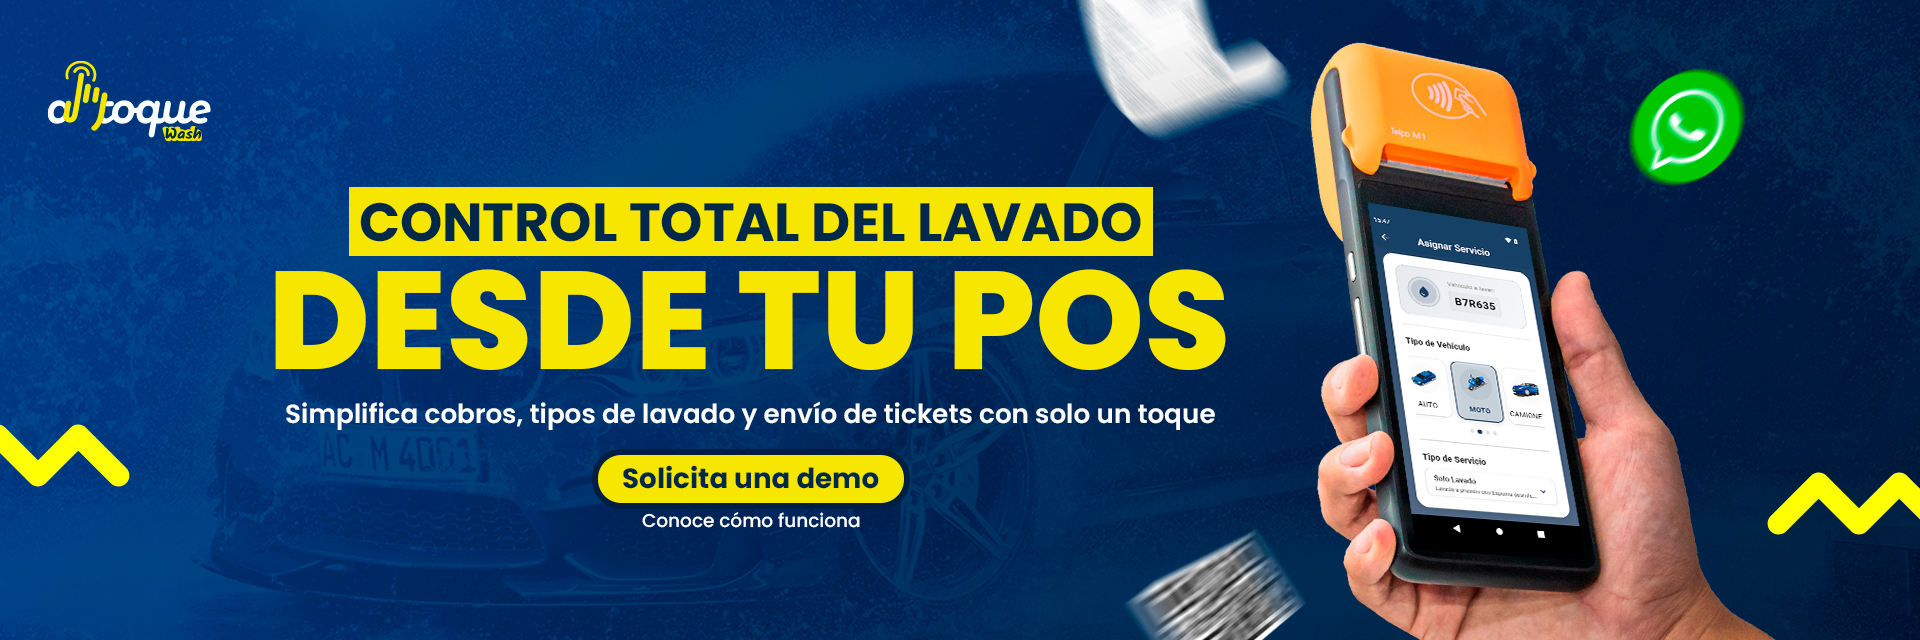
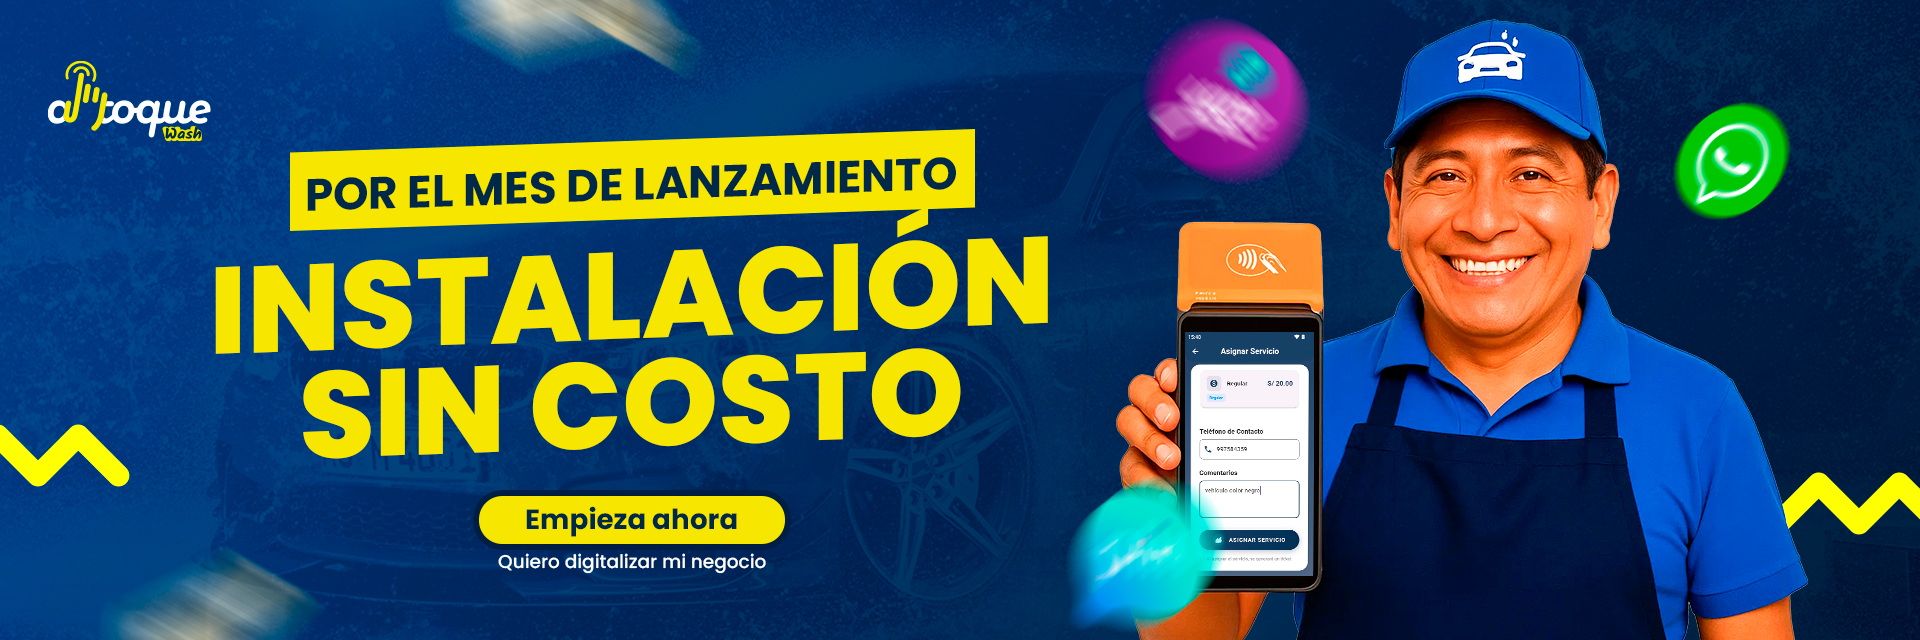
Add files via upload

diff --git a/index.html b/index.html
@@ -38,7 +38,7 @@
             <li class="nav-item"><a class="nav-link" href="#solucion-negocio">Productos y Servicios</a></li>
             <li class="nav-item"><a class="nav-link" href="#">Blog</a></li>
             <li class="nav-item"><a class="nav-link" href="#mas-informacion">Distribuidores</a></li>
-            <li class="nav-item"><a class="nav-link" href="#">¿Necesitas ayuda?</a></li>
+            <li class="nav-item"><a class="nav-link" href="https://wa.me/51988371879" target="_blank">¿Necesitas ayuda?</a></li>
           </ul>
         </div>
 
@@ -54,7 +54,7 @@
               <li class="nav-item"><a class="nav-link" href="#solucion-negocio">Productos y Servicios</a></li>
               <li class="nav-item"><a class="nav-link" href="#">Blog</a></li>
               <li class="nav-item"><a class="nav-link" href="#mas-informacion">Distribuidores</a></li>
-              <li class="nav-item"><a class="nav-link" href="#">¿Necesitas ayuda?</a></li>
+              <li class="nav-item"><a class="nav-link" href="https://wa.me/51988371879" target="_blank">¿Necesitas ayuda?</a></li>
             </ul>
           </div>
         </div>
@@ -69,22 +69,29 @@
           <div class="carousel-item active" data-bs-interval="5000">
             <picture>
               <source srcset="assets/image/banner1.webp" media="(max-width: 768px)">
+              <source srcset="assets/image/banner-carrusel/Banner 1.png">
+              <img src="assets/image/banner-carrusel/Banner 1.png" class="d-block w-100" alt="Banner 1">
+            </picture>
+          </div>
+          <div class="carousel-item " data-bs-interval="2000">
+            <picture>
+              <source srcset="assets/image/banner1.webp" media="(max-width: 768px)">
               <source srcset="assets/image/banner-carrusel/Banner 2.png">
-              <img src="assets/image/banner-carrusel/Banner 2.png" class="d-block w-100" alt="Banner 1">
+              <img src="assets/image/banner-carrusel/Banner 2.png" class="d-block w-100" alt="Banner 2">
             </picture>
           </div>
           <div class="carousel-item" data-bs-interval="2000">
             <picture>
               <source srcset="assets/image/banner2.webp" media="(max-width: 768px)">
               <source srcset="assets/image/banner-carrusel/Banner 3.png">
-              <img src="assets/image/banner-carrusel/Banner 3.png" class="d-block w-100" alt="Banner 2">
+              <img src="assets/image/banner-carrusel/Banner 3.png" class="d-block w-100" alt="Banner 3">
             </picture>
           </div>
           <div class="carousel-item">
             <picture>
               <source srcset="assets/image/banner3.webp" media="(max-width: 768px)">
-              <source srcset="assets/image/banner-carrusel/Banner 1.png">
-              <img src="assets/image/banner-carrusel/Banner 1.png" class="d-block w-100" alt="Banner 3">
+              <source srcset="assets/image/banner-carrusel/Banner 4.png">
+              <img src="assets/image/banner-carrusel/Banner 4.png" class="d-block w-100" alt="Banner 4">
             </picture>
           </div>
         </div>
@@ -123,7 +130,7 @@
         </div>
       </div>
       <!-- Pagos Mensual-->
-      <div class="container contenedor-pagos" id="contenedor-pagos-Mensual">
+      <div class="container contenedor-pagos contenedor-pagos-mensual" id="contenedor-pagos-Mensual">
         <div class="container contenedor-imagenes">
           <img src="assets/image/logo-altoque.png" class="logo-virtual" alt="logo">
           <img src="assets/image/pos-wash.png" alt="precioMaquina" width="250px" height="250px">
@@ -182,7 +189,7 @@
       <div class="container contenedor-pagos contenedor-pagos-anual" id="contenedor-pagos-anual">
         <div class="container contenedor-imagenes">
           <img src="assets/image/logo-altoque.png" class="logo-virtual" alt="logo">
-          <img src="assets/image/pos-wash.png" alt="precioMaquina" width="250px" height="250px">
+          <img src="assets/image/pos-wash-virtual2.png" alt="precioMaquina" width="250px" height="250px">
         </div>
         <div class="container contenedor-caracteristicas">
           <div class="container mt-4 contenedor-caracteristicas">
@@ -319,7 +326,7 @@
           <p>Contáctenos por</p>
           <p class="text-center">WhatsApp</p>
         </div>
-        <a href="https://wa.me/51987654321" target="_blank" class="whatsapp-float" aria-label="Chat en WhatsApp">
+        <a href="https://wa.me/51988371879" target="_blank" class="whatsapp-float" aria-label="Chat en WhatsApp">
           <img src="https://cdn-icons-png.flaticon.com/512/124/124034.png" alt="WhatsApp">
         </a>
       </div>

diff --git a/css/index.css b/css/index.css
@@ -70,6 +70,8 @@ body {
 
 .pagos {
     background-color: #dbe3eb;
+    /* background: linear-gradient(to right, #00008b, #1e90ff, #DBE3EB); */
+
 }
 
 .pagos .container {
@@ -164,26 +166,8 @@ body {
 /*fin pagos presencial*/
 
 /* pago virtual*/
-.virtual-primer-pago,
-.virtual-segundo-pago {
-    display: flex;
-    flex-direction: column;
-    align-items: center;
-    justify-content: center;
-    padding: 0;
-}
 
-.contenedor-botones-virtual {
-    display: flex;
-    flex-direction: column;
-    gap: 10px;
-    justify-content: center;
-    align-items: center;
-}
 
-.contenedor-botones-virtual a {
-    width: 50%;
-}
 
 .card-products__items-item:not(:last-child) {
     margin-bottom: 24px;
@@ -214,8 +198,15 @@ body {
     flex-direction: column;
     justify-content: center;
     align-items: center;
-    width: 300px;
+    width: 350px;
     max-width: 1200px;
+    
+}
+.contenedor-pagos-mensual,.contenedor-pagos-anual{
+    box-shadow: 4px 4px 8px rgba(0, 0, 0, 0.5);
+    border-radius: 20px;
+    padding: 15px !important;
+    margin-bottom: 10px;
 }
 
 .contenedor-pagos-anual{
